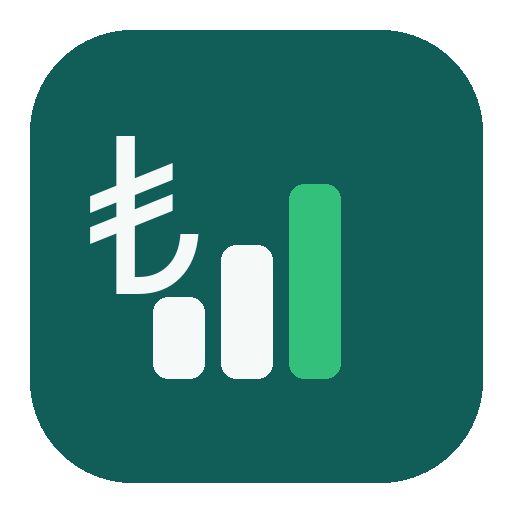
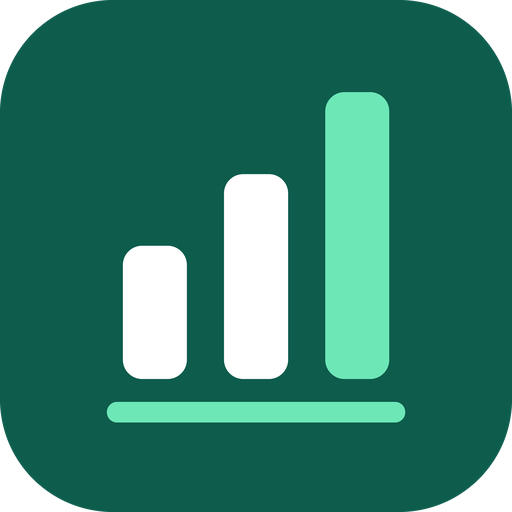
Muhasebe simgesi + manifest hatasi duzeltildi
SIMGE: eski simgede TL isareti vardi ama Kur Pusulasi da TL kullaniyor;
ikisi 64px'te karisiyordu. TL kaldirildi, artan cubuk + defter cizgisi
birakildi. Koyu yesil kimlik korundu.

MANIFEST HATASI: ikonlar 'any maskable' diye isaretlenmisti. Guvenli alani
olmayan bir ikonu maskable ilan etmek Android'in icerigi KIRPMASINA yol
acar. Normal ikonlar 'any'e cekildi, ayri bir maskable ikon uretildi.
Alti manifestin hepsi tarandi; hata yalnizca burdaydi.

diff --git a/muhasebe/sw.js b/muhasebe/sw.js
@@ -1,7 +1,7 @@
 /* Muhasebe mobil - servis calisani (cevrimdisi calisma).
    Onbellek surumu HER YAYINDA artmali (surum_artir.py otomatik yapar) ki
    kullanici eski surumde kalmasin. */
-const SURUM = "muhasebe-v3";
+const SURUM = "muhasebe-v4";
 const DOSYALAR = [
   "index.html",
   "manifest.json",
